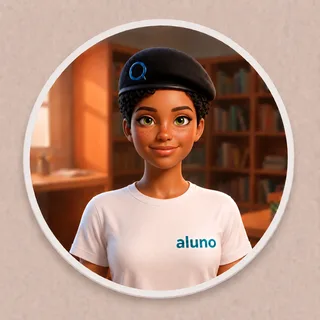
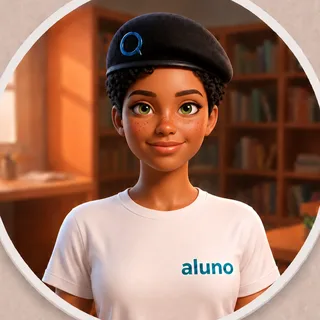
Corrige o encaixe das fotos com boina (recorte no miolo da arte)
O gabarito das artes traz fundo bege e anel branco; sem recorte, o
personagem ficava encolhido e deslocado no círculo do avatar. Cada foto
agora é recortada no círculo interno (proporção fixa do gabarito) e
preenche o avatar como a foto base.

Claude-Session: https://claude.ai/code/session_01TjLph3vrmkmLEeaqqKDUdJ

diff --git a/CHANGELOG.md b/CHANGELOG.md
@@ -1,5 +1,11 @@
 # Histórico de versões — Viver o Quad (protótipo)
 
+## 20/07/2026 — encaixe das fotos com boina corrigido
+- As artes vinham com a moldura do gabarito (fundo bege + anel branco) e
+  o personagem ficava encolhido no círculo; agora cada foto é **recortada
+  no miolo** (só o círculo interno) e preenche o avatar igual à foto base
+- Recorte proporcional aplicado aos 12 personagens; ativos regenerados
+
 ## 20/07/2026 — fotos oficiais com boina (homens) no guarda-roupa
 - As artes do gestor entraram no app: **comprar a boina troca a foto do
   personagem de verdade** — card do Início, preview do Perfil e zoom
